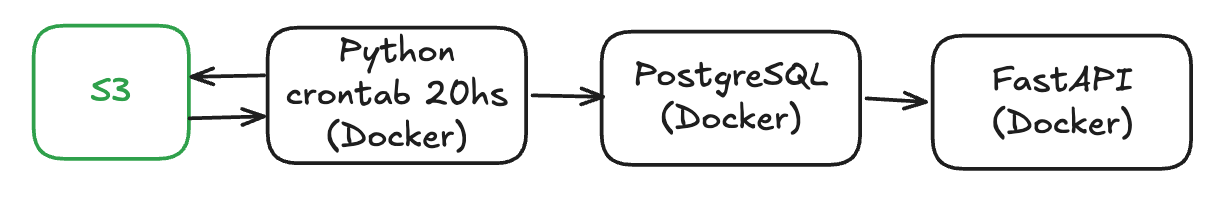
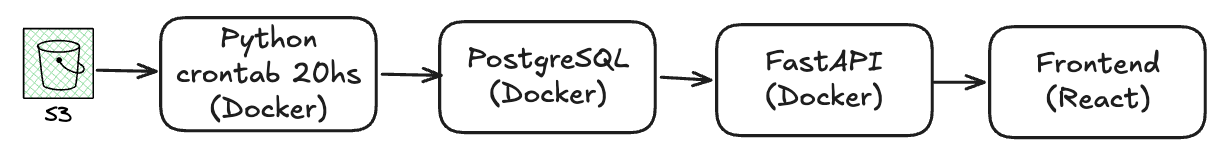
Update

Changed region(s): [[0.0, 0.1006, 0.9951, 0.8805]]

diff --git a/README.md b/README.md
@@ -2,59 +2,132 @@
   <img align="center"; src="https://urbetrack.com/hs-fs/hubfs/URBE.Logo.navegaci%C3%B3n-dark.png?width=200&height=52&name=URBE.Logo.navegaci%C3%B3n-dark.png" width="100px">
 </h1>
 
-# ⚙ timesheet-api
+# ⚙ timesheet
 
-Esta API facilita endpoints con información que se genera en Azure DevOps.
+Primer Dashboard MVP para ver timesheet de los equipos de tecnología.
 
-## 🚥 Flujo
+## 🚥 Arquitectura
 
-- Contamos un con un S3 que almacena archivos **.json** con información histórica de Work Items de Azure DevOps.
-- Tenemos un contenedor con Python que ejecuta un proceso el cual, actualiza el S3, transforma los datos y los almacena en un PostgreSQL, que también es un contenedor.
-- Contamos con un PostgreSQL que tiene la información organizada
-- Luego contamos con una API para poder ofrecer los datos almacenados en PostgreSQLs
+![flujo](docs/flujo.png)
 
-![alt text](docs/flujo.png)
+| Contenedor | Descripción |
+|---|---|
+| `postgresql` | Base de datos PostgreSQL |
+| `etl` | Extrae datos de Azure DevOps y S3, los transforma y los carga en PostgreSQL. Corre en un crontab. |
+| `api` | FastAPI que expone los datos de PostgreSQL |
+| `frontend` | Dashboard React servido por Nginx en el puerto 3000 |
 
-## 🚀 Cómo ejecutar este proyecto
-1. Crear un archivo **.env** y agregar las siguientes variables de entorno:
+## 🛠 Requisitos
+
+- [Docker](https://www.docker.com/) y Docker Compose
+
+## 🚀 Cómo ejecutar
+
+### 1. Clonar el repositorio
 
 ```bash
-  # Configuración Azure DevOps
-  ACCESS_TOKEN = 'xxxxx'
-  AZURE_URL = 'xxxxx'
-  # Conf S3
-  aws_access_key_id = 'xxxxx'
-  aws_secret_access_key = 'xxxxx'
-  serial_number = 'xxxxx'
-  clave_secreta_MFA = 'xxxxx'
-  # Configuración de PostgreSQL
-  DB_USER = 'xxxxx'
-  DB_PASSWORD = 'xxxxx'
-  DB_HOST = 'xxxxx'
-  DB_PORT = 'xxxxx'
-  DB_NAME = 'xxxxx'
+git clone <url-del-repo>
+cd timesheet-api
 ```
 
-2. Tener Docker corriendo y ejecutar el siguiente comando:
-```shell
-docker compose up -d
+### 2. Configurar variables de entorno
+
+Copiar el archivo de ejemplo y completar los valores:
+
+```bash
+cp .env.example .env
 ```
-3. Una vez creados los contenedores, aún tiene que terminar de correr el etl que trae datos, podemos ir viendo la ejecución en este contenedor con el siguiente comando:
-```shell
+
+Editar `.env` con los valores correspondientes:
+
+```bash
+# PostgreSQL
+DB_USER=
+DB_PASSWORD=
+DB_HOST=localhost
+DB_PORT=5432
+DB_NAME=
+
+# Azure DevOps
+AZURE_URL=               # URL de la organización (ej: https://dev.azure.com/mi-org)
+ACCESS_TOKEN=            # Personal Access Token de Azure DevOps
+
+# AWS S3
+aws_access_key_id=
+aws_secret_access_key=
+serial_number=           # ARN del dispositivo MFA (ej: arn:aws:iam::123456789:mfa/usuario)
+clave_secreta_MFA=       # Clave secreta TOTP del dispositivo MFA
+AWS_REGION=us-east-1
+AWS_S3_BUCKET=           # Nombre del bucket S3 con los datos históricos
+
+# Schedule del ETL (formato crontab)
+LOADER_CRON_SCHEDULE=0 20 * * *   # Por defecto: todos los días a las 20:00
+```
+
+> Los valores de `API_PORT` (default `8000`) y `FRONTEND_PORT` (default `3000`) son opcionales.
+
+### 3. Levantar los contenedores
+
+```bash
+docker compose up -d --build
+```
+
+### 4. Seguir la ejecución inicial del ETL
+
+El ETL corre automáticamente al iniciar el contenedor y luego según el schedule configurado. Para ver los logs en tiempo real:
+
+```bash
 docker logs -f etl
 ```
-4. Una vez terminado el proceso anterior, ya podemos acceder a la API revisando su documentación en http://localhost:8000/docs
 
-⚠ **Validar que no corran otros proyectos en el puerto 5432 y 8000. Se puede acceder al contenedor "etl" para ejecutar el proceso de carga cuando sea necesario.**
+### 5. Acceder
 
-## Mejoras
-- [ ] Agregar validadores a todos los endpoints.
-- [ ] Crear los tests.
-- [ ] Mejoraras en la carpeta etl
-- [ ] En settings modificar colaboradores_verticales.csv por un json
-- [ ] Si el endpoint flat se pone lento, guardar data en caché
-- [ ] Agregar fecha ejecución de logs
+| Servicio | URL |
+|---|---|
+| Frontend | http://localhost:3000 |
+| API (Swagger) | http://localhost:8000/docs |
 
-## Contribuidores
+> ⚠ Verificar que los puertos `5432`, `8000` y `3000` no estén en uso por otros procesos.
+
+## 📋 Endpoints de la API
+
+| Método | Endpoint | Descripción |
+|---|---|---|
+| GET | `/flat` | Datos flat con filtros opcionales `?desde=YYYY-MM-DD&hasta=YYYY-MM-DD` |
+| GET | `/colaboradores` | Lista de colaboradores por vertical |
+| GET | `/clients` | Mapeo de clientes |
+| GET | `/activity` | Mapeo de actividades |
+| GET | `/feriados` | Lista de feriados |
+| GET | `/ancestor` | Mapeo de ancestros |
+
+## 🔧 Comandos útiles
+
+```bash
+# Ver logs de cada contenedor
+docker logs -f etl
+docker logs -f api
+docker logs -f frontend
+
+# Ejecutar el ETL manualmente (sin esperar el cron)
+docker exec etl python loader.py
+
+# Detener todos los contenedores
+docker compose down
+
+# Detener y eliminar volúmenes (borra la DB)
+docker compose down -v
+```
+
+## 📌 Mejoras pendientes
+
+- [ ] Agregar validadores a todos los endpoints
+- [ ] Crear tests
+- [ ] Mejoras en la carpeta `etl`
+- [ ] En `settings` migrar `colaboradores_verticales.csv` a JSON
+- [ ] Caché para el endpoint `/flat` si se vuelve lento
+- [ ] Agregar fecha de ejecución en logs
+
+## 👥 Contribuidores
+
 - Pablo Piccoli
 - Juan Cruz Romero
